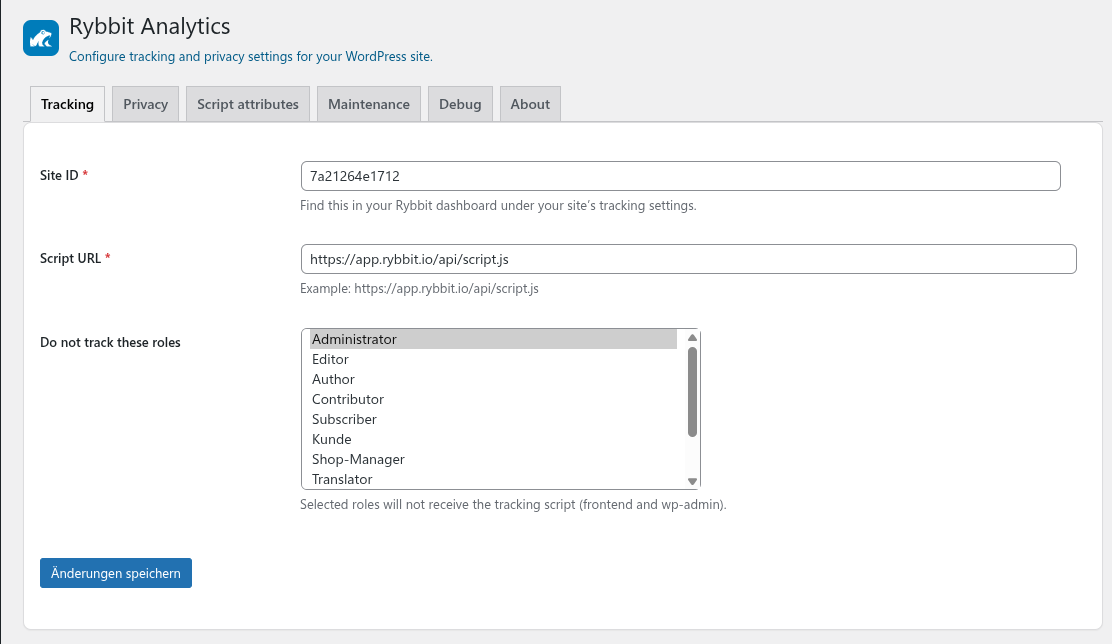
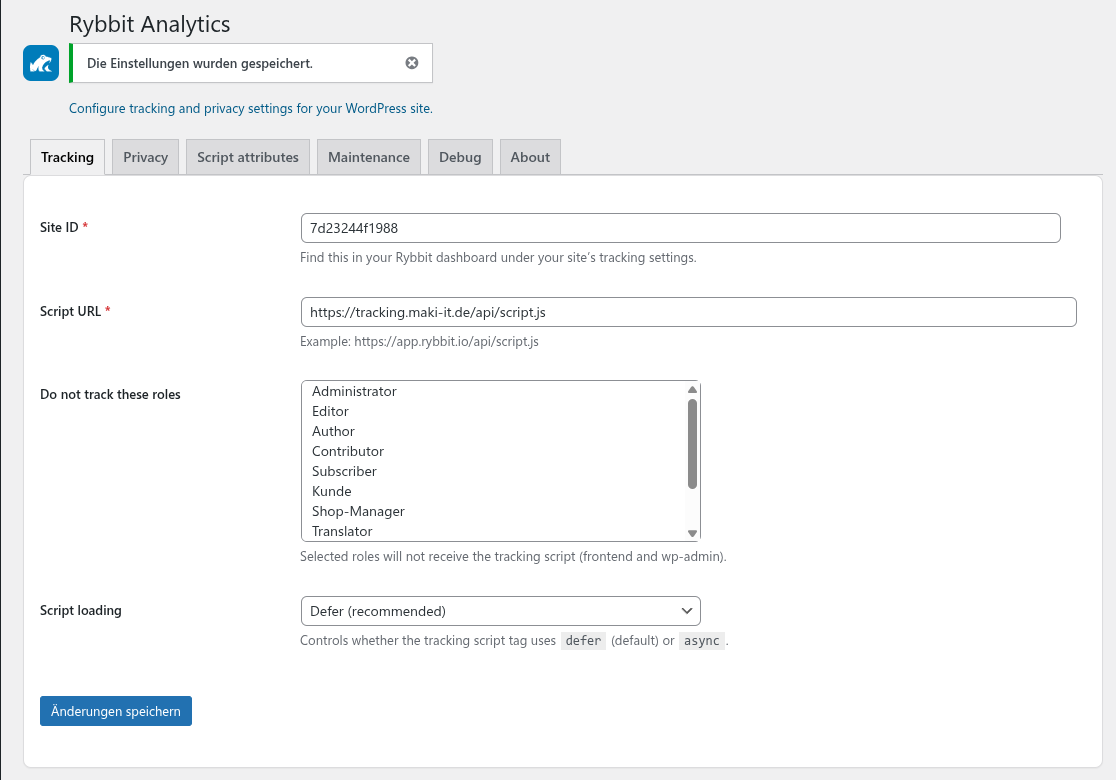
feat: add script loading mode selection (defer/async) in settings (#11)
* feat: add script loading mode selection (defer/async) in settings

* feat: add script loading mode selection (defer/async) in settings

diff --git a/rybbit-analytics/admin/class-rybbit-analytics-admin.php b/rybbit-analytics/admin/class-rybbit-analytics-admin.php
@@ -106,6 +106,16 @@ class Rybbit_Analytics_Admin {
             },
             'default' => '',
         ));
+
+        // Script loading mode: defer (default) or async.
+        register_setting('rybbit_analytics_settings', 'rybbit_script_loading', array(
+            'type' => 'string',
+            'sanitize_callback' => function ($value) {
+                $value = is_string($value) ? strtolower(trim($value)) : '';
+                return in_array($value, array('defer', 'async'), true) ? $value : 'defer';
+            },
+            'default' => 'defer',
+        ));
     }
 
     /**
@@ -268,6 +278,7 @@ class Rybbit_Analytics_Admin {
 
         $site_id = get_option('rybbit_site_id', '');
         $script_url = get_option('rybbit_script_url', 'https://app.rybbit.io/api/script.js');
+        $script_loading = get_option('rybbit_script_loading', 'defer');
         $skip_patterns = get_option('rybbit_skip_patterns', '');
         $mask_patterns = get_option('rybbit_mask_patterns', '');
         $debounce = get_option('rybbit_debounce', '500');
@@ -353,6 +364,16 @@ class Rybbit_Analytics_Admin {
                                         <?php endforeach; ?>
                                     </select>
                                     <p class="description">Selected roles will not receive the tracking script (frontend and wp-admin).</p>
+                                </td>
+                            </tr>
+                            <tr>
+                                <th scope="row"><label for="rybbit_script_loading">Script loading</label></th>
+                                <td>
+                                    <select id="rybbit_script_loading" name="rybbit_script_loading" class="rybbit-select-wide">
+                                        <option value="defer" <?php selected($script_loading, 'defer'); ?>>Defer (recommended)</option>
+                                        <option value="async" <?php selected($script_loading, 'async'); ?>>Async</option>
+                                    </select>
+                                    <p class="description">Controls whether the tracking script tag uses <code>defer</code> (default) or <code>async</code>.</p>
                                 </td>
                             </tr>
                         </table>
@@ -494,10 +515,14 @@ class Rybbit_Analytics_Admin {
                         $skip_json = wp_json_encode($skip_arr);
                         $mask_json = wp_json_encode($mask_arr);
 
+                        $script_loading_preview = get_option('rybbit_script_loading', 'defer');
+                        $script_loading_attr = ($script_loading_preview === 'async') ? ' async' : ' defer';
+
                         // Quote JSON strings safely for HTML attributes.
                         $script_tag_preview = sprintf(
-                            '<script src="%s" async data-site-id="%s" data-skip-patterns=%s data-mask-patterns=%s data-debounce="%s"></script>',
+                            '<script src="%s"%s data-site-id="%s" data-skip-patterns=%s data-mask-patterns=%s data-debounce="%s"></script>',
                             esc_url($script_url),
+                            $script_loading_attr,
                             esc_attr($site_id),
                             wp_json_encode($skip_json ? $skip_json : '[]'),
                             wp_json_encode($mask_json ? $mask_json : '[]'),

diff --git a/rybbit-analytics/public/class-rybbit-analytics-public.php b/rybbit-analytics/public/class-rybbit-analytics-public.php
@@ -84,6 +84,7 @@ class Rybbit_Analytics_Public {
     public function add_tracking_script() {
         $site_id = get_option('rybbit_site_id', '');
         $script_url = get_option('rybbit_script_url', 'https://app.rybbit.io/api/script.js');
+        $script_loading = get_option('rybbit_script_loading', 'defer');
 
         $excluded_roles_json = get_option('rybbit_excluded_roles', null);
         $do_not_track_admins = get_option('rybbit_do_not_track_admins', '1');
@@ -129,7 +130,7 @@ class Rybbit_Analytics_Public {
         <!-- Rybbit Analytics Tracking -->
         <script
             src="<?php echo esc_url($script_url); ?>"
-            async
+            <?php echo ($script_loading === 'async') ? 'async' : 'defer'; ?>
             data-site-id="<?php echo esc_attr($site_id); ?>"
             data-skip-patterns='<?php echo esc_attr($skip_patterns_json); ?>'
             data-mask-patterns='<?php echo esc_attr($mask_patterns_json); ?>'

diff --git a/rybbit-analytics/uninstall.php b/rybbit-analytics/uninstall.php
@@ -15,6 +15,7 @@ if ($delete_all !== '1' && (!is_multisite() || get_site_option('rybbit_delete_da
 $option_names = array(
     'rybbit_site_id',
     'rybbit_script_url',
+    'rybbit_script_loading',
     'rybbit_do_not_track_admins',
     'rybbit_excluded_roles',
     'rybbit_skip_patterns',
